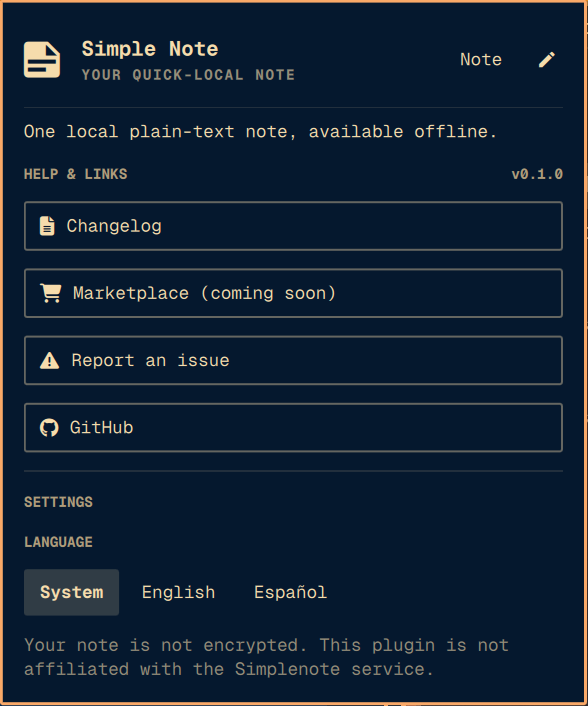
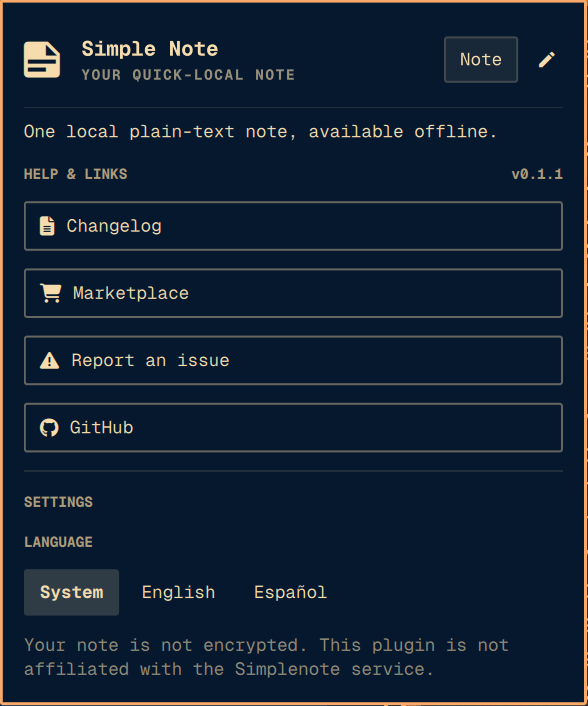
Link About to marketplace listing for 0.1.1

diff --git a/i18n.js b/i18n.js
@@ -8,7 +8,7 @@ var en = {
   loading: "Loading note…",
   about: "About", aboutInfo: "Help & links", settings: "Settings",
   language: "Language", languageSystem: "System", languageEnglish: "English", languageSpanish: "Español",
-  github: "GitHub", reportIssue: "Report an issue", changelog: "Changelog", marketplace: "Marketplace (coming soon)",
+  github: "GitHub", reportIssue: "Report an issue", changelog: "Changelog", marketplace: "Marketplace",
   subtitle: "YOUR QUICK-LOCAL NOTE",
   aboutDescription: "One local plain-text note, available offline.",
   aboutPrivacy: "Your note is not encrypted. This plugin is not affiliated with the Simplenote service."
@@ -23,7 +23,7 @@ var es = {
   loading: "Cargando nota…",
   about: "Acerca de", aboutInfo: "Ayuda y enlaces", settings: "Ajustes",
   language: "Idioma", languageSystem: "Sistema", languageEnglish: "English", languageSpanish: "Español",
-  github: "GitHub", reportIssue: "Informar de un problema", changelog: "Registro de cambios", marketplace: "Marketplace (próximamente)",
+  github: "GitHub", reportIssue: "Informar de un problema", changelog: "Registro de cambios", marketplace: "Marketplace",
   subtitle: "TU NOTA LOCAL RÁPIDA",
   aboutDescription: "Una nota local de texto sin formato, disponible sin conexión.",
   aboutPrivacy: "Tu nota no está cifrada. Este plugin no está relacionado con el servicio Simplenote."

diff --git a/NotePanel.qml b/NotePanel.qml
@@ -18,7 +18,7 @@ Panel {
   readonly property color heroForeground: bar ? bar.foreground : Commons.Color.foreground
   readonly property string heroFontFamily: bar ? bar.fontFamily : Style.font.family
   property bool showingAbout: false
-  readonly property string pluginVersion: "0.1.0"
+  readonly property string pluginVersion: "0.1.1"
   function tr(key) { return T.t(key, localeName, uiLanguage) }
   function toggleAbout() {
     showingAbout = !showingAbout
@@ -239,7 +239,8 @@ Panel {
                     iconText: "\uf07a"
                     bordered: true
                     leftAlign: true
-                    enabled: false
+                    focusable: true
+                    onClicked: Qt.openUrlExternally("https://omarchyplugins.com/plugin.html?id=danielmrdev.simplenote")
                   }
                   Ui.Button {
                     width: parent.width

diff --git a/tests/about.test.js b/tests/about.test.js
@@ -24,3 +24,11 @@ test("About version matches the manifest and copy is localized", () => {
     assert.match(panel, new RegExp(`root\\.tr\\("${key}"\\)`))
   }
 })
+
+test("About marketplace button opens the published listing", () => {
+  assert.equal(i18n.en.marketplace, "Marketplace")
+  assert.equal(i18n.es.marketplace, "Marketplace")
+  assert.match(panel, /text: root\.tr\("marketplace"\)/)
+  assert.match(panel, /focusable: true\s+onClicked: Qt\.openUrlExternally\("https:\/\/omarchyplugins\.com\/plugin\.html\?id=danielmrdev\.simplenote"\)/)
+  assert.doesNotMatch(panel, /marketplace[\s\S]{0,200}enabled: false/)
+})

diff --git a/README.md b/README.md
@@ -136,7 +136,7 @@ describes the plugin contract and validation tools.
 ## Releases
 
 Changes are recorded in [CHANGELOG.md](CHANGELOG.md). See the
-[0.1.0 source](https://github.com/danielmrdev/omarchy-simplenote/tree/v0.1.0)
+[0.1.1 source](https://github.com/danielmrdev/omarchy-simplenote/tree/v0.1.1)
 for this version.
 
 ## License

diff --git a/CHANGELOG.md b/CHANGELOG.md
@@ -7,6 +7,13 @@ and releases will follow [Semantic Versioning](https://semver.org/spec/v2.0.0.ht
 
 ## [Unreleased]
 
+## [0.1.1] - 2026-11-23
+
+### Changed
+
+- About now opens the published marketplace listing and no longer labels it as
+  coming soon.
+
 ## [0.1.0] - 2026-11-20
 
 ### Added
